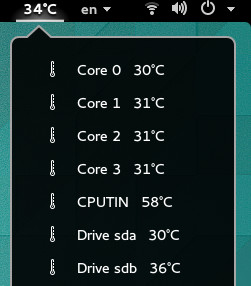
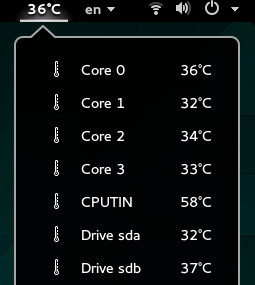
Add right align for sensor values

diff --git a/freon@UshakovVasilii_Github.yahoo.com/extension.js b/freon@UshakovVasilii_Github.yahoo.com/extension.js
@@ -32,9 +32,9 @@ const FreonItem = new Lang.Class({
         this._value = value;
 
         this.actor.add(new St.Icon({ style_class: 'system-status-icon', gicon : gIcon}));
-        this.actor.add(new St.Label({text: label}));
+        this.actor.add(new St.Label({text: label}), {x_fill: true, expand: true});
         this._valueLabel = new St.Label({text: value});
-        this.actor.add(this._valueLabel, {align: St.Align.END});
+        this.actor.add(this._valueLabel);
     },
 
     addMainDot: function() {
